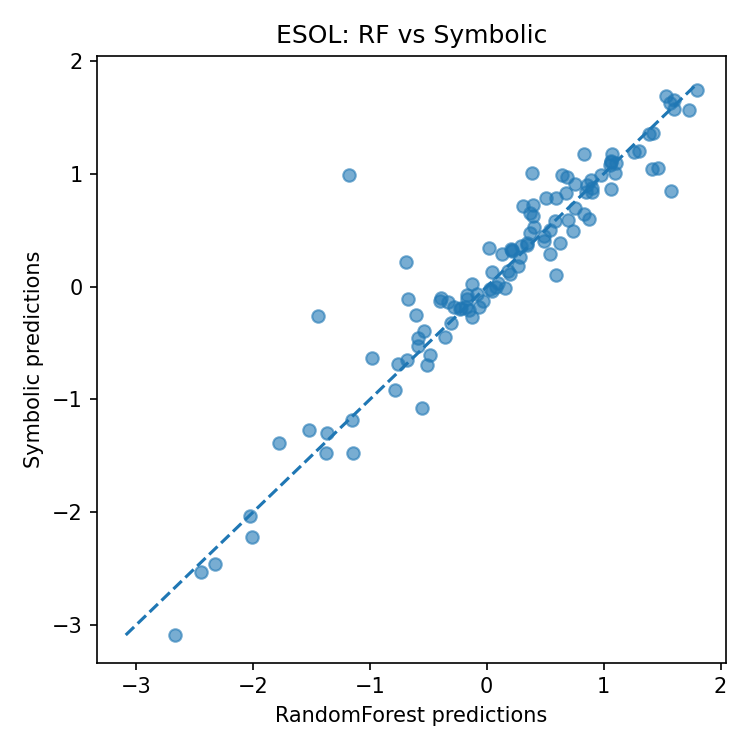
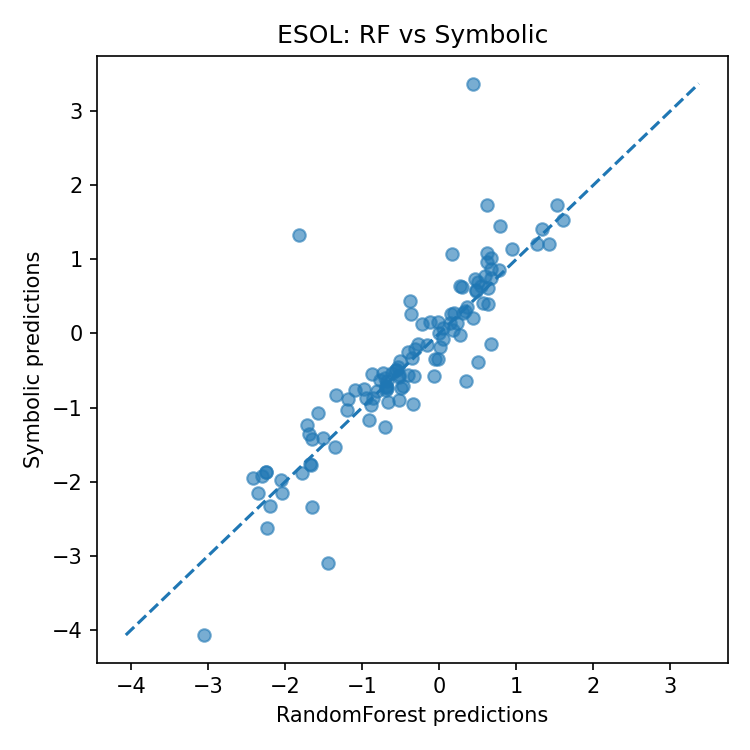
Changes made to be commited

diff --git a/experiments/molnet_symbolic_classification.py b/experiments/molnet_symbolic_classification.py
@@ -1,0 +1,197 @@
+import sys, os
+sys.path.append(os.path.dirname(os.path.dirname(os.path.abspath(__file__))))
+
+import numpy as np
+import deepchem as dc
+import matplotlib.pyplot as plt
+
+from sklearn.metrics import roc_auc_score, roc_curve
+from sklearn.preprocessing import StandardScaler
+from sklearn.ensemble import RandomForestClassifier
+
+from rdkit.Chem import Descriptors
+
+from models.dc_torch_symbolic_regressor import DCTorchSymbolicRegressor
+
+
+# --------------------------------------------------
+# Descriptor names from RDKit
+# --------------------------------------------------
+
+RDKit_NAMES = [d[0] for d in Descriptors.descList]
+
+
+# --------------------------------------------------
+# Save ROC plot
+# --------------------------------------------------
+
+def save_roc_plot(name, y_true, rf_probs, sym_probs):
+    os.makedirs("outputs", exist_ok=True)
+
+    fpr_rf, tpr_rf, _ = roc_curve(y_true, rf_probs)
+    fpr_sym, tpr_sym, _ = roc_curve(y_true, sym_probs)
+
+    plt.figure(figsize=(5, 5))
+    plt.plot(fpr_rf, tpr_rf, label="RandomForest")
+    plt.plot(fpr_sym, tpr_sym, label="Symbolic")
+    plt.plot([0, 1], [0, 1], "--")
+
+    plt.xlabel("False Positive Rate")
+    plt.ylabel("True Positive Rate")
+    plt.title(f"{name} ROC")
+    plt.legend()
+
+    plt.tight_layout()
+    plt.savefig(f"outputs/{name}_roc.png", dpi=150)
+    plt.close()
+
+
+# --------------------------------------------------
+# Save symbolic equation summary
+# --------------------------------------------------
+
+def save_equation(name, sym):
+    eq = sym.get_equation()
+
+    os.makedirs("outputs", exist_ok=True)
+
+    with open("outputs/molnet_classification_equations.txt", "a") as f:
+        f.write(f"\n----- {name} -----\n")
+        for k, v in eq.items():
+            if k != "bias" and v is not None:
+                f.write(f"{k}: {np.mean(np.abs(v)):.4f}\n")
+        f.write(f"bias: {eq['bias']:.4f}\n")
+
+
+# --------------------------------------------------
+# Clean NaNs
+# --------------------------------------------------
+
+def clean_dataset(ds):
+    mask = ~np.isnan(ds.X).any(axis=1)
+    return dc.data.NumpyDataset(ds.X[mask], ds.y[mask])
+
+
+# --------------------------------------------------
+# Train models
+# --------------------------------------------------
+
+def train_models(name, train, test):
+
+    train = clean_dataset(train)
+    test = clean_dataset(test)
+
+    if len(test.y) == 0:
+        print(f"{name}: no valid samples after cleaning")
+        return np.nan, np.nan
+
+    # ---------------- RF ----------------
+    rf = RandomForestClassifier(n_estimators=300, random_state=0)
+    rf.fit(train.X, train.y.flatten())
+
+    rf_probs = rf.predict_proba(test.X)[:, 1]
+    y_test_rf = test.y.flatten()
+
+    rf_auc = roc_auc_score(y_test_rf, rf_probs)
+
+    # ---------------- Feature selection ----------------
+    importances = rf.feature_importances_
+    top_k = 12 if name == "BBBP" else 10
+    idx = np.argsort(importances)[::-1][:top_k]
+
+    X_train_sel = train.X[:, idx]
+    X_test_sel = test.X[:, idx]
+
+    # nonlinear expansion
+    X_train_exp = np.concatenate([X_train_sel, X_train_sel**2], axis=1)
+    X_test_exp = np.concatenate([X_test_sel, X_test_sel**2], axis=1)
+
+    scaler = StandardScaler()
+    X_train_exp = scaler.fit_transform(X_train_exp)
+    X_test_exp = scaler.transform(X_test_exp)
+
+    train_ds = dc.data.NumpyDataset(X_train_exp, train.y.flatten())
+    test_ds = dc.data.NumpyDataset(X_test_exp, test.y.flatten())
+
+    sym = DCTorchSymbolicRegressor(
+        learning_rate=0.001,
+        batch_size=128
+    )
+
+    sym.fit(train_ds, nb_epoch=2000)
+
+    # ---------------- Human-readable formula ----------------
+    eq = sym.get_equation()
+    linear = eq.get("linear")
+    quad = eq.get("quadratic")
+    bias = eq.get("bias")
+
+    selected_names = [RDKit_NAMES[i] for i in idx]
+
+    terms = []
+
+    for w, name_i in zip(linear, selected_names):
+        if abs(w) > 0.05:
+            sign = "+" if w > 0 else "−"
+            terms.append(f"{sign} {abs(w):.2f}·{name_i}")
+
+    for w, name_i in zip(quad, selected_names):
+        if abs(w) > 0.05:
+            sign = "+" if w > 0 else "−"
+            terms.append(f"{sign} {abs(w):.2f}·{name_i}²")
+
+    formula = f"logit({name}) = {bias:.2f} " + " ".join(terms)
+
+    print("\nRecovered symbolic formula:")
+    print(formula)
+
+    # ---------------- Predictions ----------------
+    logits = sym.predict(test_ds).flatten()
+    probs = 1 / (1 + np.exp(-np.clip(logits, -20, 20)))
+
+    sym_auc = roc_auc_score(y_test_rf, probs)
+
+    save_roc_plot(name, y_test_rf, rf_probs, probs)
+    save_equation(name, sym)
+
+    print(f"{name} RF AUC: {rf_auc:.3f}")
+    print(f"{name} Symbolic AUC: {sym_auc:.3f}")
+
+    return rf_auc, sym_auc
+
+
+# --------------------------------------------------
+# Main
+# --------------------------------------------------
+
+def main():
+
+    results = {}
+
+    # BBBP
+    _, ds, _ = dc.molnet.load_bbbp(
+        featurizer=dc.feat.RDKitDescriptors(),
+        splitter="scaffold",
+        reload=False
+    )
+    train, valid, test = ds
+    results["BBBP"] = train_models("BBBP", train, test)
+
+    # BACE
+    _, ds, _ = dc.molnet.load_bace_classification(
+        featurizer=dc.feat.RDKitDescriptors(),
+        splitter="scaffold",
+        reload=False
+    )
+    train, valid, test = ds
+    results["BACE"] = train_models("BACE", train, test)
+
+    print("\n--- FINAL CLASSIFICATION ---")
+    print("Dataset | RF AUC | Symbolic AUC")
+
+    for k, (rf, sym) in results.items():
+        print(f"{k:6s} {rf:.3f} {sym:.3f}")
+
+
+if __name__ == "__main__":
+    main()

diff --git a/experiments/molnet_symbolic_benchmark.py b/experiments/molnet_symbolic_benchmark.py
@@ -25,16 +25,17 @@ from models.dc_torch_symbolic_regressor import DCTorchSymbolicRegressor
 def load_esol():
     _, ds, _ = dc.molnet.load_delaney(
         featurizer=dc.feat.RDKitDescriptors(),
-        splitter="random",
+        splitter="scaffold",
         reload=False
     )
     return ds
 
 
+
 def load_freesolv():
     _, ds, _ = dc.molnet.load_freesolv(
         featurizer=dc.feat.RDKitDescriptors(),
-        splitter="random",
+        splitter="scaffold",
         reload=False
     )
     return ds
@@ -43,10 +44,11 @@ def load_freesolv():
 def load_lipo():
     _, ds, _ = dc.molnet.load_lipo(
         featurizer=dc.feat.RDKitDescriptors(),
-        splitter="random",
+        splitter="scaffold",
         reload=False
     )
     return ds
+
 
 
 # --------------------------------------------------
@@ -56,11 +58,11 @@ def load_lipo():
 def train_rf(train, test, dataset_name):
 
     if dataset_name == "ESOL":
-        top_k = 30
+        top_k = 12
     elif dataset_name == "FreeSolv":
-        top_k = 15
+        top_k = 8
     else:
-        top_k = 10
+        top_k = 6
 
     X_train = train.X
     y_train = train.y.flatten()
@@ -79,13 +81,24 @@ def train_rf(train, test, dataset_name):
 
     return rf, rmse, idx, X_train_sel, X_test_sel
 
-
-# --------------------------------------------------
-# Polynomial expansion
-# --------------------------------------------------
-
 def expand(X):
-    return np.concatenate([X, X**2, X**3], axis=1)
+    X = np.asarray(X)
+    X2 = X ** 2
+    n = X.shape[1]
+
+    pairs = []
+    for i in range(n):
+        for j in range(i + 1, n):
+            pairs.append((X[:, i] * X[:, j])[:, None])
+
+    X_pair = np.hstack(pairs) if pairs else None
+    X_sqrt = np.sqrt(np.abs(X) + 1e-8)
+
+    parts = [X, X2, X_sqrt]
+    if X_pair is not None:
+        parts.append(X_pair)
+
+    return np.concatenate(parts, axis=1)
 
 
 # --------------------------------------------------
@@ -117,10 +130,21 @@ def save_prediction_plot(name, rf_preds, sym_preds):
 
 def train_symbolic(name, rf, idx, X_train_sel, X_test_sel, train, test):
 
+    # dataset-specific cubic strength
+    if name == "ESOL":
+        cubic_k = 10
+    elif name == "FreeSolv":
+        cubic_k = 3
+    else:  # Lipophilicity
+        cubic_k = 8
+
     X_train = expand(X_train_sel)
     X_test = expand(X_test_sel)
 
-    scaler = StandardScaler()
+
+
+    scaler = StandardScaler(with_mean=True, with_std=True)
+
     X_train = scaler.fit_transform(X_train)
     X_test = scaler.transform(X_test)
 

diff --git a/models/dc_torch_symbolic_classifier.py b/models/dc_torch_symbolic_classifier.py
@@ -1,0 +1,51 @@
+import torch
+import numpy as np
+import deepchem as dc
+
+from deepchem.models.torch_models.torch_model import TorchModel
+from deepchem.models.losses import SigmoidCrossEntropy
+from deepchem.models.optimizers import Adam
+
+from models.torch_symbolic_net import SymbolicNet
+
+
+class DCTorchSymbolicClassifier(TorchModel):
+    """
+    Symbolic classifier:
+        p = sigmoid( w1*x + w2*x^2 + interactions + b )
+    """
+
+    def __init__(self, learning_rate=0.001, batch_size=128):
+
+        dummy = torch.nn.Linear(1, 1)
+
+        super().__init__(
+            model=dummy,
+            loss=SigmoidCrossEntropy(),
+            optimizer=Adam(learning_rate=learning_rate, weight_decay=1e-4),
+            batch_size=batch_size,
+            output_types=["prediction"]
+        )
+
+    def build(self, dataset):
+        n_features = dataset.X.shape[1]
+        self.model = SymbolicNet(n_features)
+
+        self._built = False
+        self._ensure_built()
+
+    def fit(self, dataset, **kwargs):
+        self.build(dataset)
+        return super().fit(dataset, **kwargs)
+
+    def get_equation(self):
+        eq = self.model.get_equation()
+
+        if isinstance(eq, tuple):
+            w, b = eq
+            return {"linear": w, "bias": b}
+
+        eq.setdefault("linear", None)
+        eq.setdefault("quadratic", None)
+        eq.setdefault("bias", 0.0)
+        return eq
